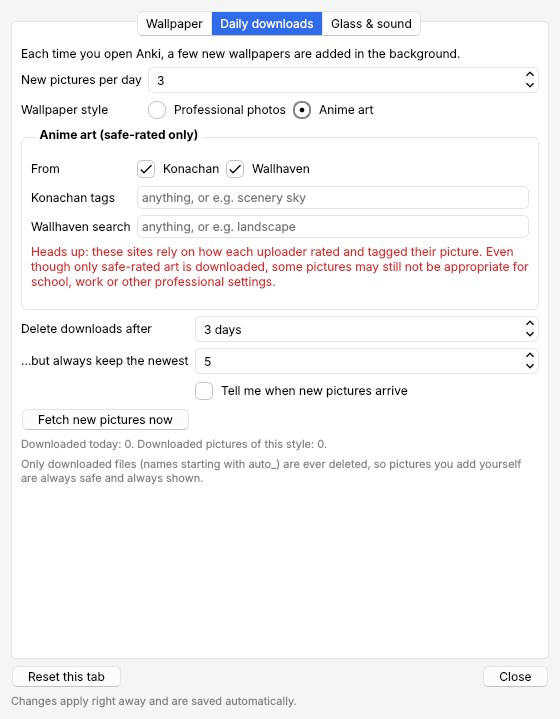
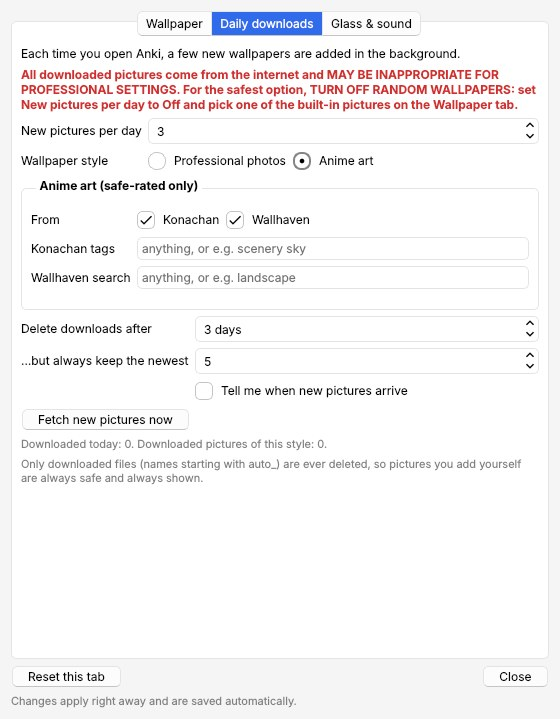
Professional topics: Nature, Architecture, Landscape + own tags; constant warning
Settings → Daily downloads always shows a red warning that downloaded
pictures come from the internet and may be inappropriate for professional
settings, and how to turn random wallpapers off. Docs and screenshots updated.

Claude-Session: https://claude.ai/code/session_012cZ2edc3Z83QWC5adsUwSL

Changed region(s): [[0.0304, 0.0918, 0.9714, 0.3978], [0.9411, 0.1836, 0.9714, 0.2142]]

diff --git a/docs/ankiweb_description.html b/docs/ankiweb_description.html
@@ -5,7 +5,7 @@
 <b>Features</b>
 <ul>
 <li><b>Wallpaper behind every screen</b>: deck list, overview, reviewer, and the top and bottom bars, lined up seamlessly in light and dark mode.</li>
-<li><b>New wallpapers every day</b>: professional photos (Nature, Travel, Minimal, Animals or Other) or anime art, safe-rated only, from Wallhaven and Konachan. You can also turn downloads off and keep one picture. Three built-in film photographs are included, and you can add your own.</li>
+<li><b>New wallpapers every day</b>: professional photos (Nature, Architecture, Landscape, or your own tags) or anime art, safe-rated only, from Wallhaven and Konachan. You can also turn downloads off and keep one picture. Three built-in film photographs are included, and you can add your own.</li>
 <li><b>Frosted-glass card</b> with adjustable opacity, blur, width, height and corners. Cards keep a steady size.</li>
 <li><b>Answer feedback</b>: a soft glow and a short piano note, different for Again, Hard, Good and Easy. You can adjust the volume or turn either off.</li>
 <li><b>Card text size</b> slider. It changes only the size, so bold, colors and links stay as they are.</li>
@@ -20,7 +20,7 @@
 <b>Good to know</b>
 <ul>
 <li>Want a wallpaper that never changes? Click it on the Wallpaper tab and set <i>New pictures per day</i> to <i>Off</i>.</li>
-<li>Anime art: only pictures rated "safe" by their uploaders are downloaded. Ratings depend on each uploader, so some pictures may still not suit school or work settings. Choose Professional photos if that matters.</li>
+<li><b><font color="#d32f2f">All downloaded pictures come from the internet and MAY BE INAPPROPRIATE FOR PROFESSIONAL SETTINGS. For the safest option, TURN OFF RANDOM WALLPAPERS</font></b> (set <i>New pictures per day</i> to <i>Off</i> and pick a built-in picture). Only pictures rated "safe" by their uploaders are downloaded.</li>
 <li>If you use <i>Custom Background Image and Gear Icon</i>, your pictures and settings are imported and that add-on is turned off, so the backgrounds don't overlap.</li>
 <li>Pictures you add yourself are never deleted. Only downloaded ones are cleaned up after a few days.</li>
 </ul>

diff --git a/src/frosted_glass_theme/settings_window.py b/src/frosted_glass_theme/settings_window.py
@@ -242,6 +242,13 @@ class DownloadsTab(QWidget):
         intro = QLabel("Each time you open Anki, a few new wallpapers are added in the background.")
         intro.setWordWrap(True)
         layout.addWidget(intro)
+        warning = QLabel("All downloaded pictures come from the internet and MAY BE INAPPROPRIATE FOR "
+                         "PROFESSIONAL SETTINGS. For the safest option, TURN OFF RANDOM WALLPAPERS: set "
+                         "New pictures per day to Off and pick one of the built-in pictures on the Wallpaper tab.")
+        warning.setWordWrap(True)
+        warning.setStyleSheet("color: #d32f2f; font-weight: bold;")
+        self.warning = warning
+        layout.addWidget(warning)
 
         form = QFormLayout()
         self.per_day = QSpinBox()
@@ -277,8 +284,12 @@ class DownloadsTab(QWidget):
             self.topics[topic] = box
         topics.addStretch(1)
         pro.addRow("Topics", topics)
-        pro.addRow(_hint("Safe-rated photos from Wallhaven's General category: scenery, cities, "
-                         "animals and the like, with no anime and no people."))
+        self.custom = QLineEdit(str(self.cfg.get("custom_tags") or ""))
+        self.custom.setPlaceholderText("optional, e.g. ocean, autumn, snow")
+        self.custom.setToolTip("Your own search, used alongside the ticked topics")
+        self.custom.textChanged.connect(lambda t: self._set("custom_tags", t.strip(), delay=800))
+        pro.addRow("Your own tags", self.custom)
+        pro.addRow(_hint("Safe-rated photos from Wallhaven's General category (no anime, no people)."))
         layout.addWidget(self.pro_box)
 
         # anime: Konachan / Wallhaven, safe-rated only
@@ -303,13 +314,6 @@ class DownloadsTab(QWidget):
         self.query.setPlaceholderText("anything, or e.g. landscape")
         self.query.textChanged.connect(lambda t: self._set("wallhaven_query", t.strip(), delay=800))
         an.addRow("Wallhaven search", self.query)
-        warning = QLabel("Heads up: these sites rely on how each uploader rated and tagged their picture. "
-                         "Even though only safe-rated art is downloaded, some pictures may still not be "
-                         "appropriate for school, work or other professional settings.")
-        warning.setWordWrap(True)
-        warning.setStyleSheet("color: #d32f2f;")
-        self.warning = warning
-        an.addRow(warning)
         layout.addWidget(self.anime_box)
 
         form2 = QFormLayout()
@@ -361,8 +365,8 @@ class DownloadsTab(QWidget):
             wf.fetch_now()
 
     def _topic(self, topic, on):
-        if not on and not any(b.isChecked() for b in self.topics.values()):
-            self.topics[topic].setChecked(True)  # keep at least one topic
+        if not on and not any(b.isChecked() for b in self.topics.values()) and not self.custom.text().strip():
+            self.topics[topic].setChecked(True)  # keep at least one topic (or your own tags)
             return
         self._set("topics", [t for t, b in self.topics.items() if b.isChecked()])
 
@@ -392,6 +396,7 @@ class DownloadsTab(QWidget):
         self.notify.setChecked(d["show_notification"])
         for box in self.topics.values():
             box.setChecked(True)
+        self.custom.setText("")
         self.professional.setChecked(True)
 
     def flush(self):

diff --git a/src/frosted_glass_theme/wallpaper_fetcher/__init__.py b/src/frosted_glass_theme/wallpaper_fetcher/__init__.py
@@ -47,15 +47,14 @@ OK_EXTENSIONS = (".jpg", ".jpeg", ".png")
 # Topic shown in Settings -> Wallhaven search (empty = anything)
 TOPICS = {
     "Nature": "nature",
-    "Travel": "city",
-    "Minimal": "minimalism",
-    "Animals": "animals",
-    "Other": "",
+    "Architecture": "architecture",
+    "Landscape": "landscape",
 }
 
 DEFAULTS = {
     "style": "professional",
     "topics": list(TOPICS),
+    "custom_tags": "",
     "images_per_day": 3,
     "use_konachan": True,
     "use_wallhaven": True,
@@ -85,8 +84,17 @@ def is_style_download(name, which):
 
 
 def chosen_topics(cfg):
-    topics = [t for t in (cfg.get("topics") or []) if t in TOPICS]
-    return topics or list(TOPICS)
+    return [t for t in (cfg.get("topics") or []) if t in TOPICS]
+
+
+def searches(cfg):
+    """What Professional mode searches for: the ticked topics plus your own
+    tags, if you typed any. Each download picks one at random."""
+    pool = [TOPICS[t] for t in chosen_topics(cfg)]
+    custom = str(cfg.get("custom_tags") or "").strip()
+    if custom:
+        pool.append(custom)
+    return pool or list(TOPICS.values())
 
 
 # called on the main thread after new pictures were saved
@@ -240,9 +248,7 @@ def wallhaven_candidates(cfg):
     if str(cfg.get("wallhaven_ratios") or "").strip():
         params["ratios"] = cfg["wallhaven_ratios"].strip()
     if pro:
-        topic = random.choice(chosen_topics(cfg))
-        if TOPICS[topic]:
-            params["q"] = TOPICS[topic]
+        params["q"] = random.choice(searches(cfg))
     elif str(cfg.get("wallhaven_query") or "").strip():
         params["q"] = cfg["wallhaven_query"].strip()
 

diff --git a/README.md b/README.md
@@ -8,7 +8,7 @@ A calm, good-looking Anki. Your cards sit on a pane of frosted glass over a wall
 
 - **Wallpaper behind every screen**: the deck list, deck overview, review screen and the top and bottom bars. The picture lines up seamlessly across all three areas, in light and dark mode.
 - **New wallpapers every day**, in the style you choose:
-  - **Professional photos** from [Wallhaven](https://wallhaven.cc)'s General category (no anime, no people), on any of five topics: Nature, Travel, Minimal, Animals, or Other (anything).
+  - **Professional photos** from [Wallhaven](https://wallhaven.cc)'s General category (no anime, no people), on the topics Nature, Architecture and Landscape, plus any tags you type in yourself.
   - **Anime art** from Konachan and Wallhaven, safe-rated pictures only.
   - Or turn downloads off and keep one picture forever. Three built-in wallpapers are included, and you can add your own.
 - **Frosted-glass card** with adjustable opacity, blur, width, height and corner roundness. Cards keep a steady size, and longer cards grow smoothly.
@@ -48,9 +48,9 @@ Open **Tools → Frosted Glass → Settings…**.
 
 **Want a wallpaper that never changes?** Click it on the Wallpaper tab, then set *New pictures per day* to *Off*.
 
-### About the anime style
+### ⚠ About downloaded pictures
 
-Anime art comes from community sites, and only pictures their uploaders rated "safe" are downloaded. That rating depends on how each uploader labeled their picture, so some may still not suit school, work or other professional settings. The Settings window shows this warning when you choose the anime style. If that matters to you, stick with Professional photos.
+**All downloaded pictures come from the internet and MAY BE INAPPROPRIATE FOR PROFESSIONAL SETTINGS.** Only pictures rated "safe" are downloaded, but that rating depends on how each uploader labeled their picture. **For the safest option, TURN OFF RANDOM WALLPAPERS:** set *New pictures per day* to *Off* and pick one of the built-in pictures. The Settings window always shows this warning.
 
 ## Coming from other add-ons
 

diff --git a/CHANGELOG.md b/CHANGELOG.md
@@ -3,7 +3,7 @@
 ## 1.0 (first public release)
 
 - A wallpaper behind every screen, lined up seamlessly across the top bar, main screen and bottom bar.
-- Daily wallpapers: professional photos (Nature, Travel, Minimal, Animals, Other) or safe-rated anime art from Konachan and Wallhaven.
+- Daily wallpapers: professional photos (Nature, Architecture, Landscape, or your own tags) or safe-rated anime art from Konachan and Wallhaven.
 - Three built-in wallpapers (film photographs by AidanS).
 - A frosted-glass review card with adjustable opacity, blur, width, height and corners.
 - A soft glow and piano note on each answer, with adjustable volume.
